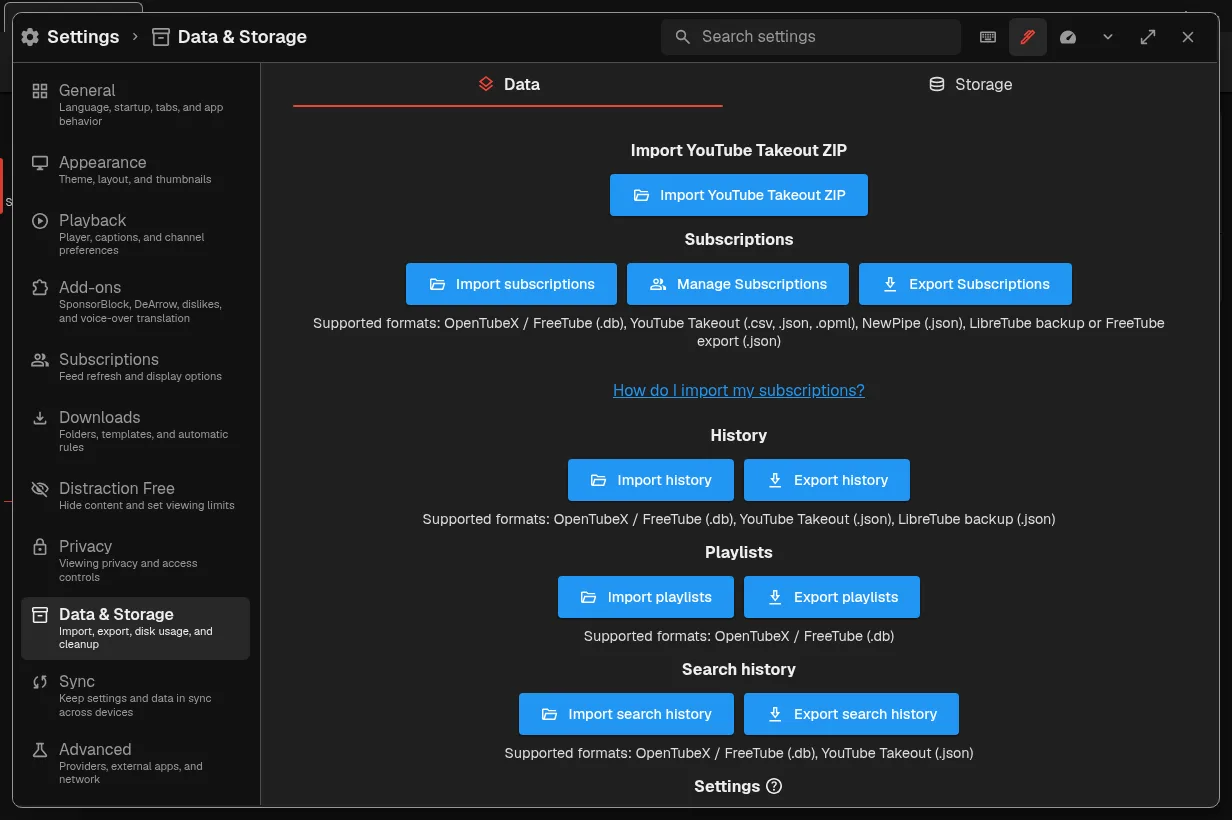
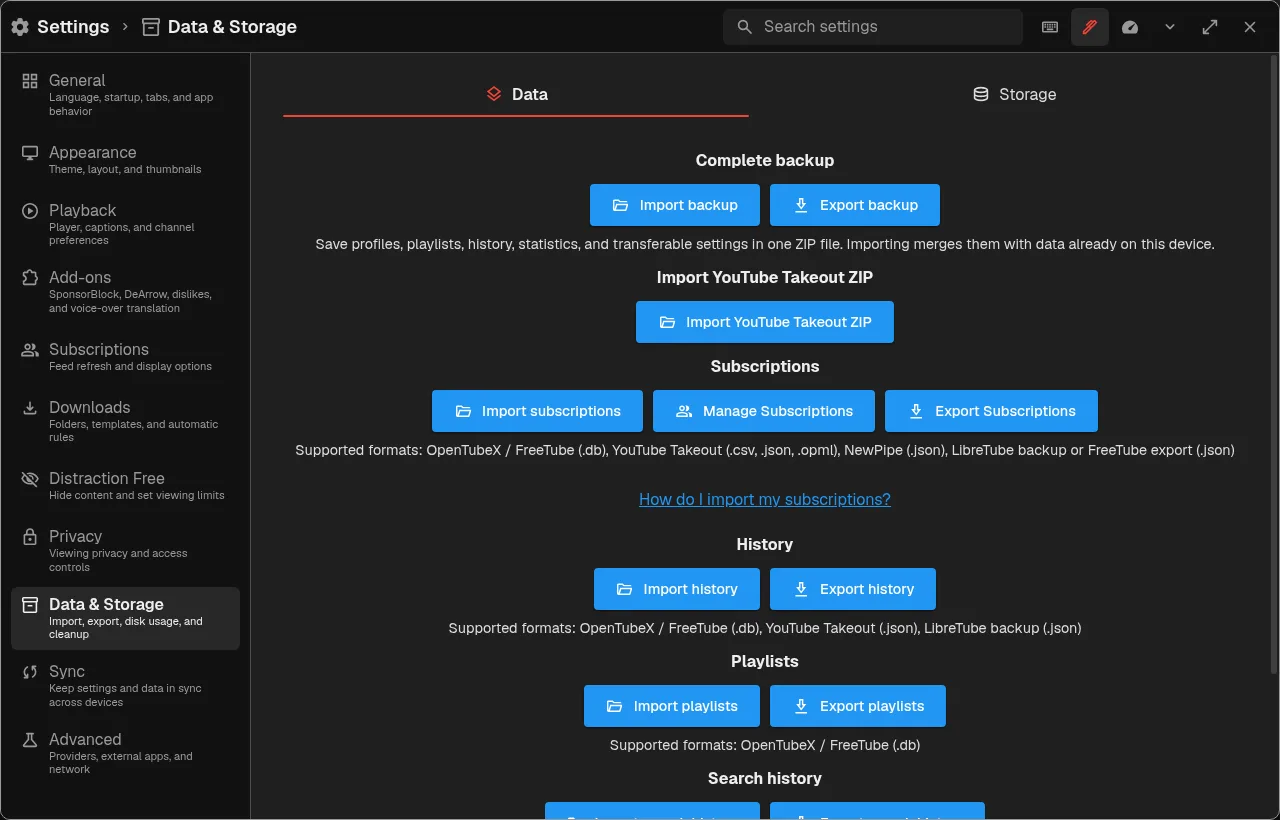
docs: explain unified ZIP backup import and export (#94)
* docs: explain unified ZIP backups in importing guide

* docs: show unified backup in importing guide

diff --git a/src/content/guides/importing.md b/src/content/guides/importing.md
@@ -8,12 +8,12 @@ order: 3
 
 1. Open your profile menu and select **All settings**.
 2. Select **Data & Storage**.
-3. Open the **Data** tab. Choose an import or export action for individual files. Use **Import YouTube Takeout ZIP** for a downloaded YouTube archive.
+3. Open the **Data** tab. Choose **Export backup** or **Import backup** for one OpenTubeX ZIP, an action for an individual file, or **Import YouTube Takeout ZIP** for a downloaded YouTube archive.
 
 <picture>
   <source data-shot-theme="dark" media="(prefers-color-scheme: dark)" srcset="/docs-images/data-dark.webp" type="image/webp" />
   <source data-shot-theme="light" media="(prefers-color-scheme: light)" srcset="/docs-images/data-light.webp" type="image/webp" />
-  <img src="/docs-images/data-light.webp" alt="Data settings with a YouTube Takeout ZIP import button and separate import and export actions." width="1232" height="820" loading="lazy" decoding="async" />
+  <img src="/docs-images/data-light.webp" alt="Data settings with unified backup controls, a YouTube Takeout ZIP import button, and individual import and export actions." width="1280" height="820" loading="lazy" decoding="async" />
 </picture>
 
 *Desktop Data settings. Import a YouTube Takeout ZIP directly, or choose an action for an individual file.*
@@ -46,13 +46,13 @@ If imported history has missing details or incorrect LIVE labels, use [Repair Hi
 
 ## Back up your library
 
-1. Open **Settings → Data & Storage → Data**.
-2. Select **Export Subscriptions**, then **Export OpenTubeX** to keep OpenTubeX profiles and subscriptions.
-3. Export **History**, **Playlists**, **search history**, and **Settings** separately if you want to keep those too.
-4. Save the files in a backup location you can find on your other device.
-5. To restore, use the matching import actions on that device.
+1. Open **Settings → Data & Storage → Data** and select **Export backup**.
+2. Save the ZIP file in a backup location you can find on your other device.
+3. On that device, select **Import backup**, choose the ZIP, select the categories to import, and select **Import selected data**.
 
-These exports cover the selected categories, not the entire application profile. They do not include watch statistics or open tab sessions. Settings exports also omit device-specific options and sync credentials, such as proxy configuration, external-player paths, screenshot folders, and the sync privacy key. Configure sync separately on the other device using the [sync setup guide](/docs/sync/).
+The ZIP contains separate JSON files for profiles and subscriptions, playlists, watch history, search history, watch statistics, and transferable settings. Importing merges the selected categories with data already on the device; records with matching IDs or dates are updated. You can still export or import individual categories using the separate actions.
+
+The ZIP does not include open tab sessions or the entire application profile. Transferable settings omit device-specific options and sync credentials, such as proxy configuration, external-player paths, screenshot folders, and the sync privacy key. Configure sync separately on the other device using the [sync setup guide](/docs/sync/).
 
 Exports contain your personal viewing data; store them privately. For a full desktop profile backup, follow [Back up or move to another device](/docs/storage/#back-up-or-move-to-another-device). Downloaded video and audio files are separate from these exports and the profile backup; copy those files separately if you need them.
 

diff --git a/src/content/guides/storage.md b/src/content/guides/storage.md
@@ -33,7 +33,7 @@ These are application data files, not downloaded video files. Downloads are save
 
 For normal transfers, use the [export and import actions](/docs/importing/#back-up-your-library). They let you choose what to transfer without copying device-specific settings indiscriminately.
 
-Those exports do not include watch statistics or saved tab sessions. A full desktop profile backup includes their database files along with the rest of the profile; it can also contain credentials and sync keys, so keep the whole backup private.
+The unified ZIP backup includes watch statistics, but individual category exports and the ZIP do not include saved tab sessions. A full desktop profile backup includes their database files along with the rest of the profile; it can also contain credentials and sync keys, so keep the whole backup private.
 
 If you need a full desktop profile backup, close OpenTubeX before copying its profile directory to a private backup location. Copy downloaded media separately. Do not edit or replace live database files while the app is running.
 
